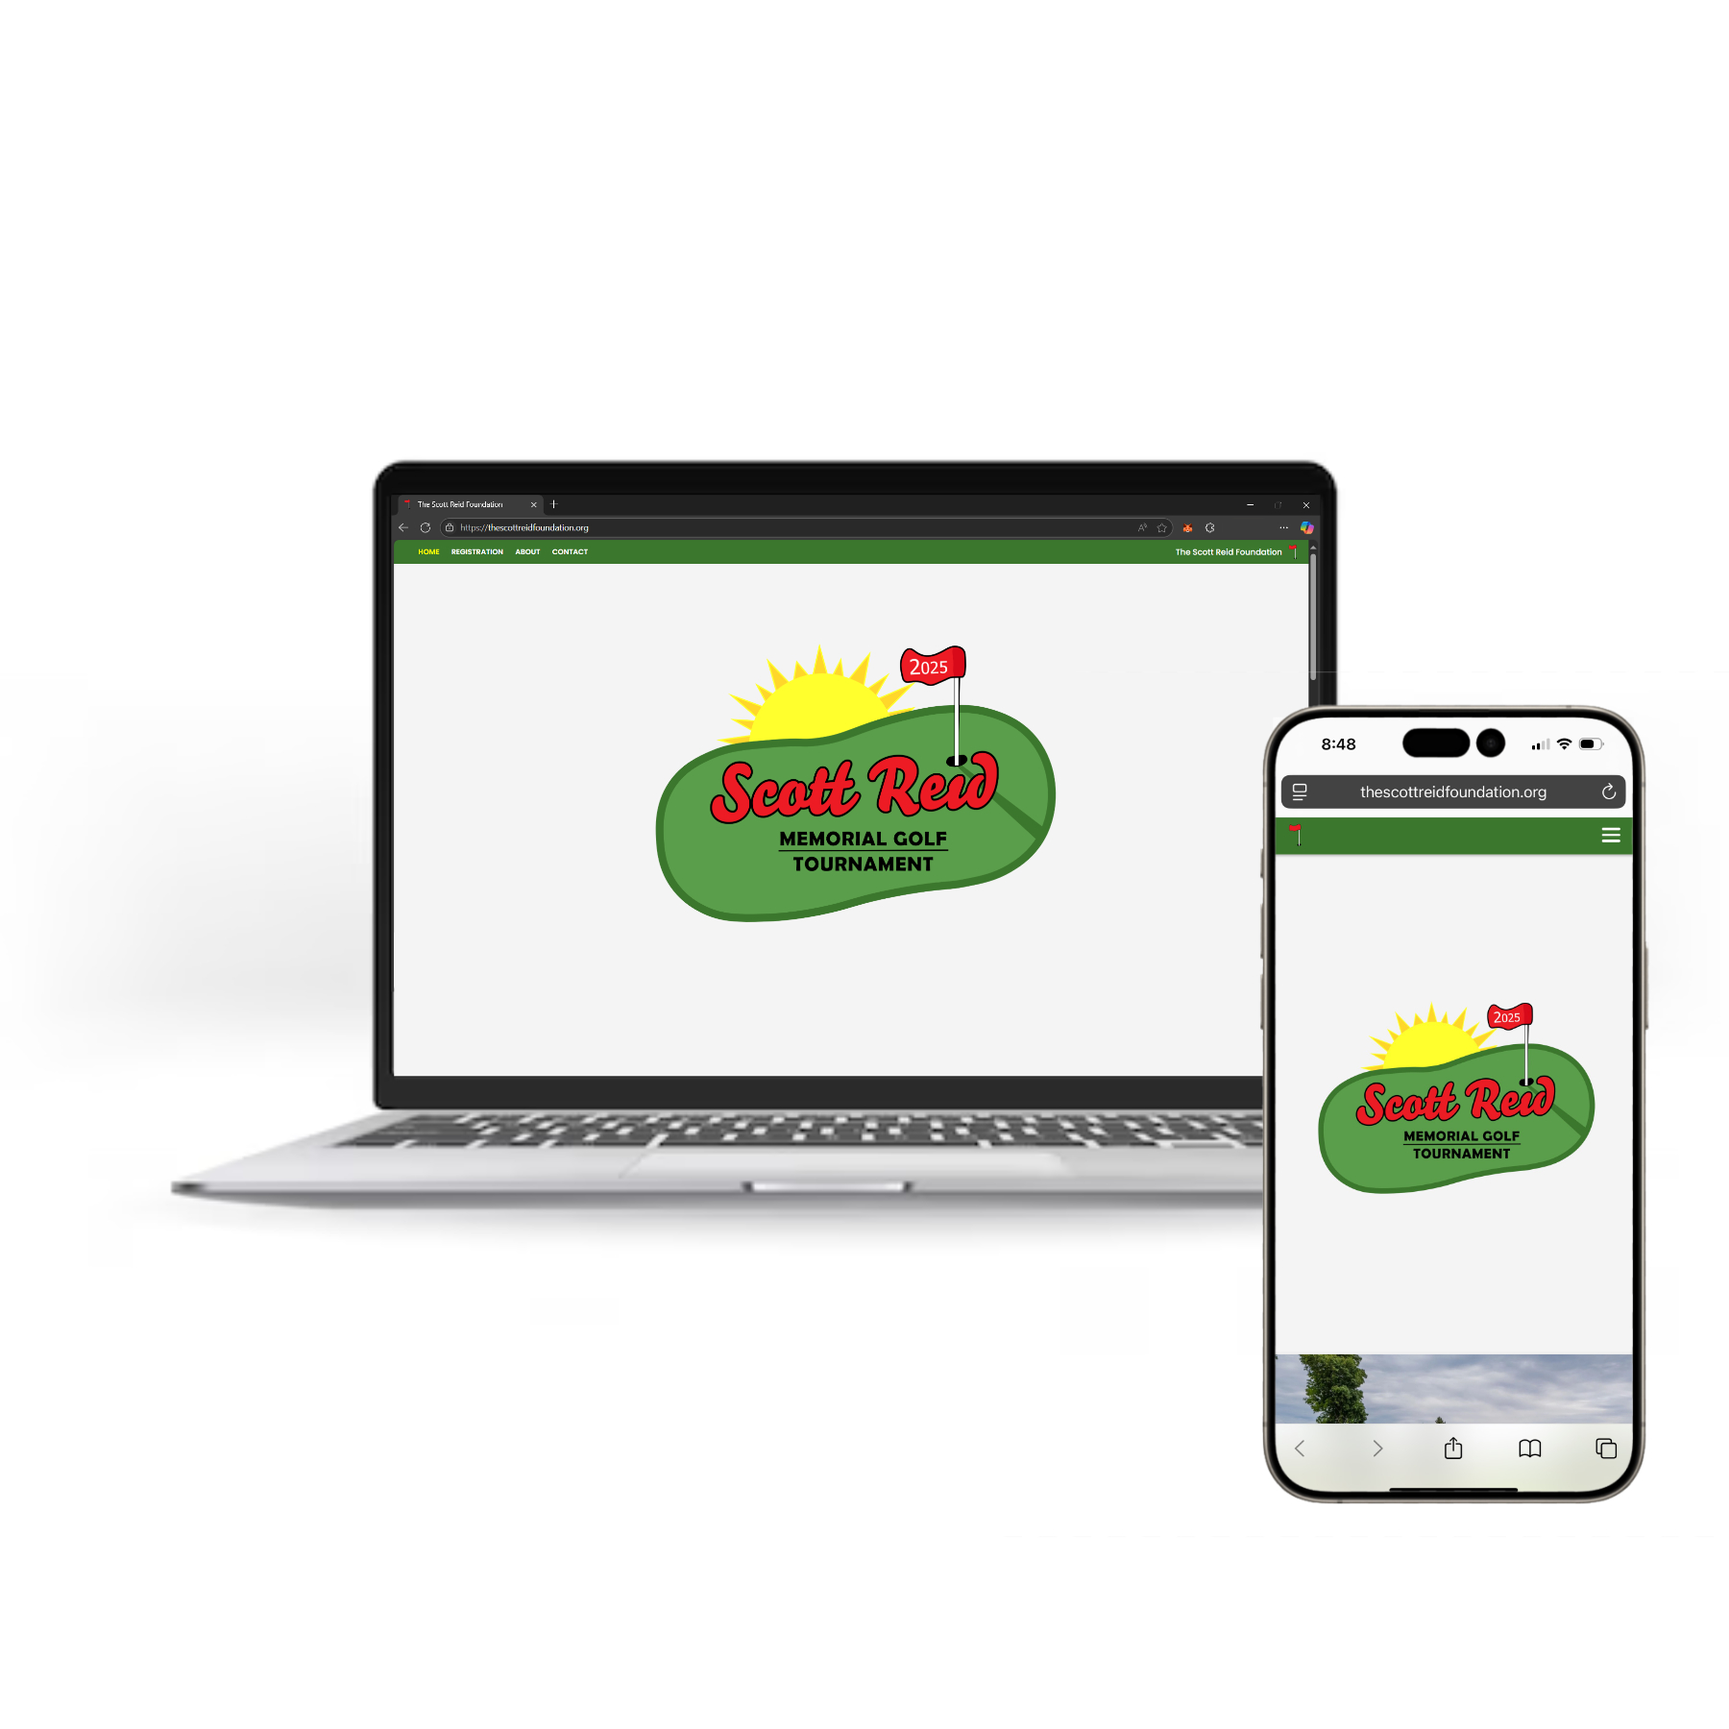
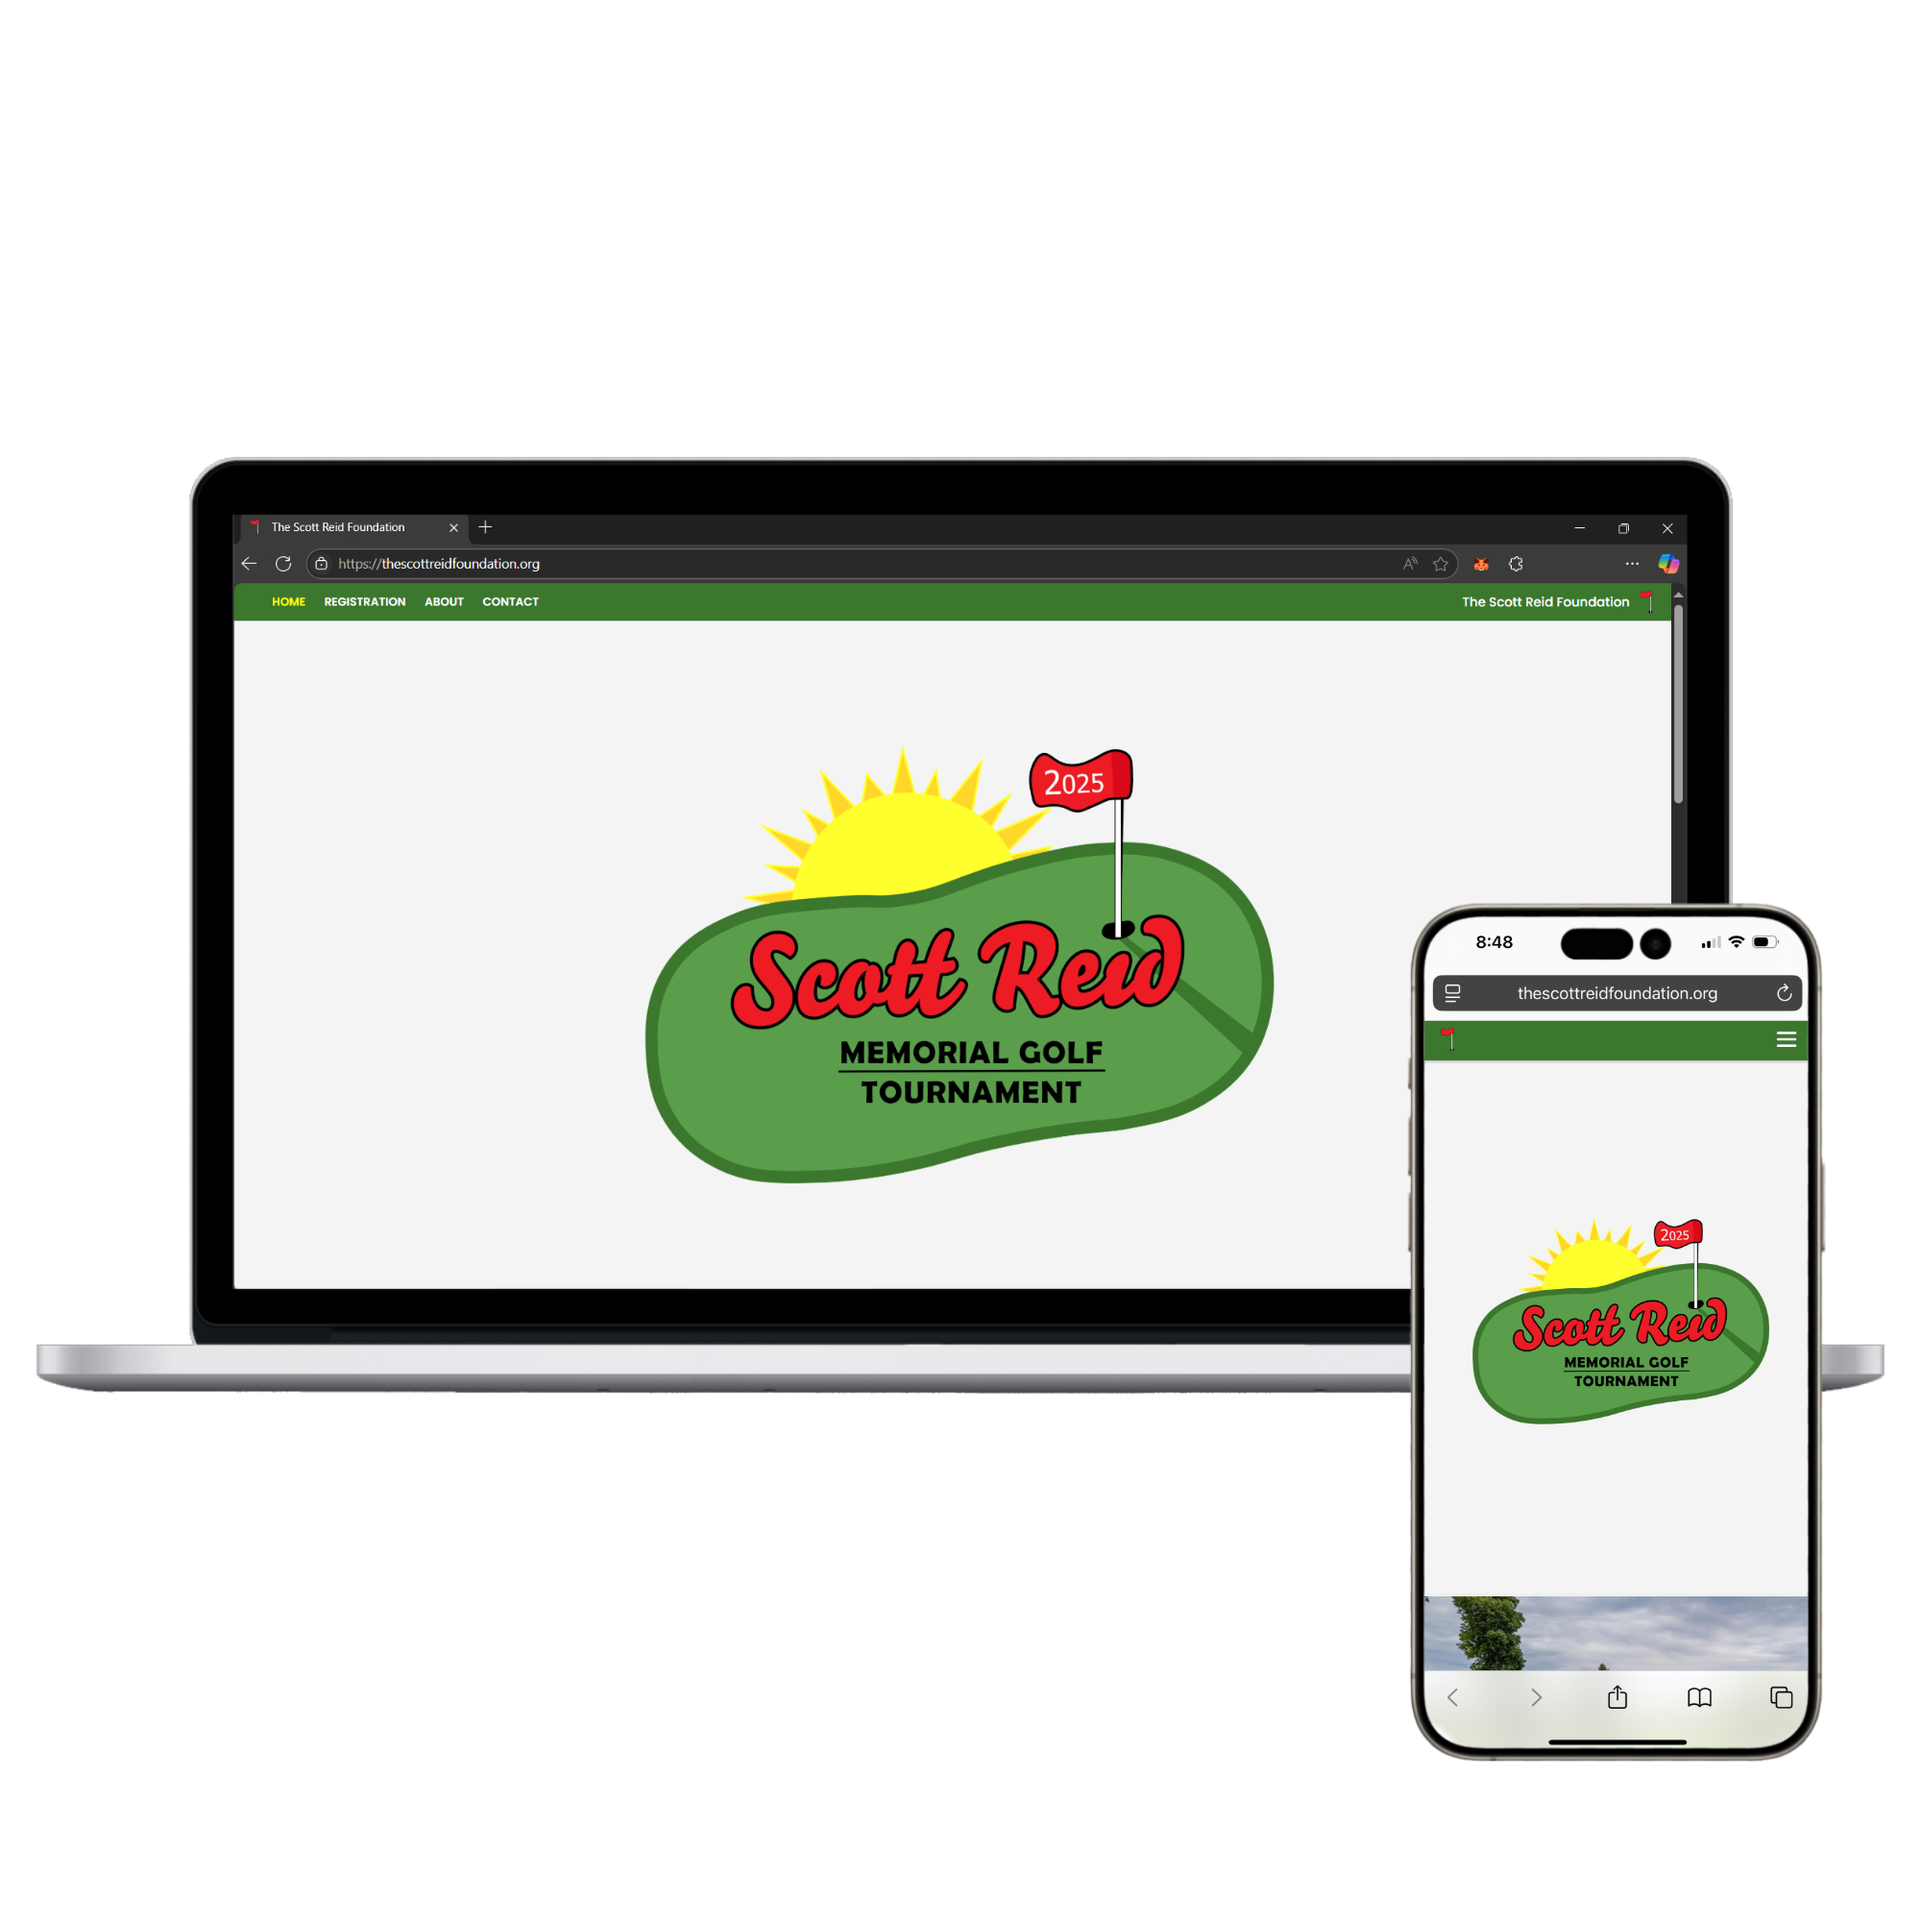
ui/ux section, formatting adjustments

Changed region(s): [[0.0, 0.2178, 0.9956, 0.9333]]

diff --git a/styles.css b/styles.css
@@ -552,8 +552,9 @@ margin: 20px auto;
 }
 
 #phonedemo{
+  border-radius: 30px;
   height: 55vh;
-  padding-left: 150px;
+  margin-left: 150px;
 }
 
 
@@ -610,11 +611,22 @@ a:focus{
     background-color: transparent;
   }
 
+    #demo-mobile-vid{
+  border-radius:5px;
+}
+
 
 @media only screen and (max-width: 600px) {
 
+  #demo-mobile-vid{
+  width: 100%;
+  border-radius: 5px;
+}
+
   #phonedemo{
   padding-left: 0;
+  margin-left:0;
+  width: auto;
 }
 
 .project-thumbnails5 img {
@@ -969,12 +981,20 @@ nav ul li a.active:hover {
 @media only screen and (min-width: 600px) and (max-width: 768px) {
   /* CSS rules for medium screens */
 
+    #demo-mobile-vid{
+  width: 100%;
+  border-radius: 5px;
+}
+
   header{
     border-bottom: 1px solid rgba(0,0,0,0.2);
   }
 
     #phonedemo{
+      border-radius: 30px;
   padding-left: 0;
+  margin-left: 0;
+  width: auto;
 }
 
 .dropdown:hover .dropdown-content{
@@ -1048,8 +1068,15 @@ header{
   border-bottom: 1px solid rgba(0,0,0,0.2);
 }
 
+#demo-mobile-vid{
+  width: 100%;
+}
+
   #phonedemo{
+    border-radius: 30px;
   padding-left: 0;
+  margin-left:0;
+  width: auto;
 }
 
 .rtn-arw-inv{
@@ -1113,8 +1140,14 @@ header{
 
 @media only screen and (min-width: 993px) and (max-width: 1200px) {
   /* CSS rules for extra-large screens - iPad */
+
+#demo-mobile-vid{
+  width: 100%;
+}
+
   #phonedemo{
-    height: 20vh;
+    border-radius: 20px;
+    height: 22vh;
 }
 
   .dropdown:hover .dropdown-content{

diff --git a/goofy.html b/goofy.html
@@ -90,7 +90,7 @@
         </a>
         </div>
         <div class="right-side">
-            <video src="images/goofy/sitedemo.mp4" autoplay loop muted disablePictureInPicture playsinline class="goofy-vid">
+            <video src="images/goofy/sitedemo.mp4" autoplay loop muted disablePictureInPicture playsinline class="goofy-vid" id="demo-mobile-vid">
             </video>
             <video src="images/goofy/mobiledemo.mp4" autoplay loop muted disablePictureInPicture playsinline class="goofy-mobile-vid">
             </video>

diff --git a/srf.html b/srf.html
@@ -94,7 +94,7 @@
         </a>
         </div>
         <div class="right-side">
-            <video src="images/srf/srf_demo.mp4" autoplay loop muted disablePictureInPicture playsinline id="pcdemo">
+            <video src="images/srf/srf_demo.mp4" autoplay loop muted disablePictureInPicture playsinline id="demo-mobile-vid">
             </video>
             <video src="images/srf/srfphonedemo.mp4" autoplay loop muted disablePictureInPicture playsinline id="phonedemo">
             </video>

diff --git a/grt.html b/grt.html
@@ -94,7 +94,7 @@
         </a>
         </div>
         <div class="right-side">
-            <video src="images/grt/GRTpreview.mp4" autoplay loop muted disablePictureInPicture playsinline>
+            <video src="images/grt/GRTpreview.mp4" autoplay loop muted disablePictureInPicture playsinline id="demo-mobile-vid">
             </video>
             <video src="images/grt/grtphonedemo.mp4" autoplay loop muted disablePictureInPicture playsinline id="phonedemo">
             </video>
